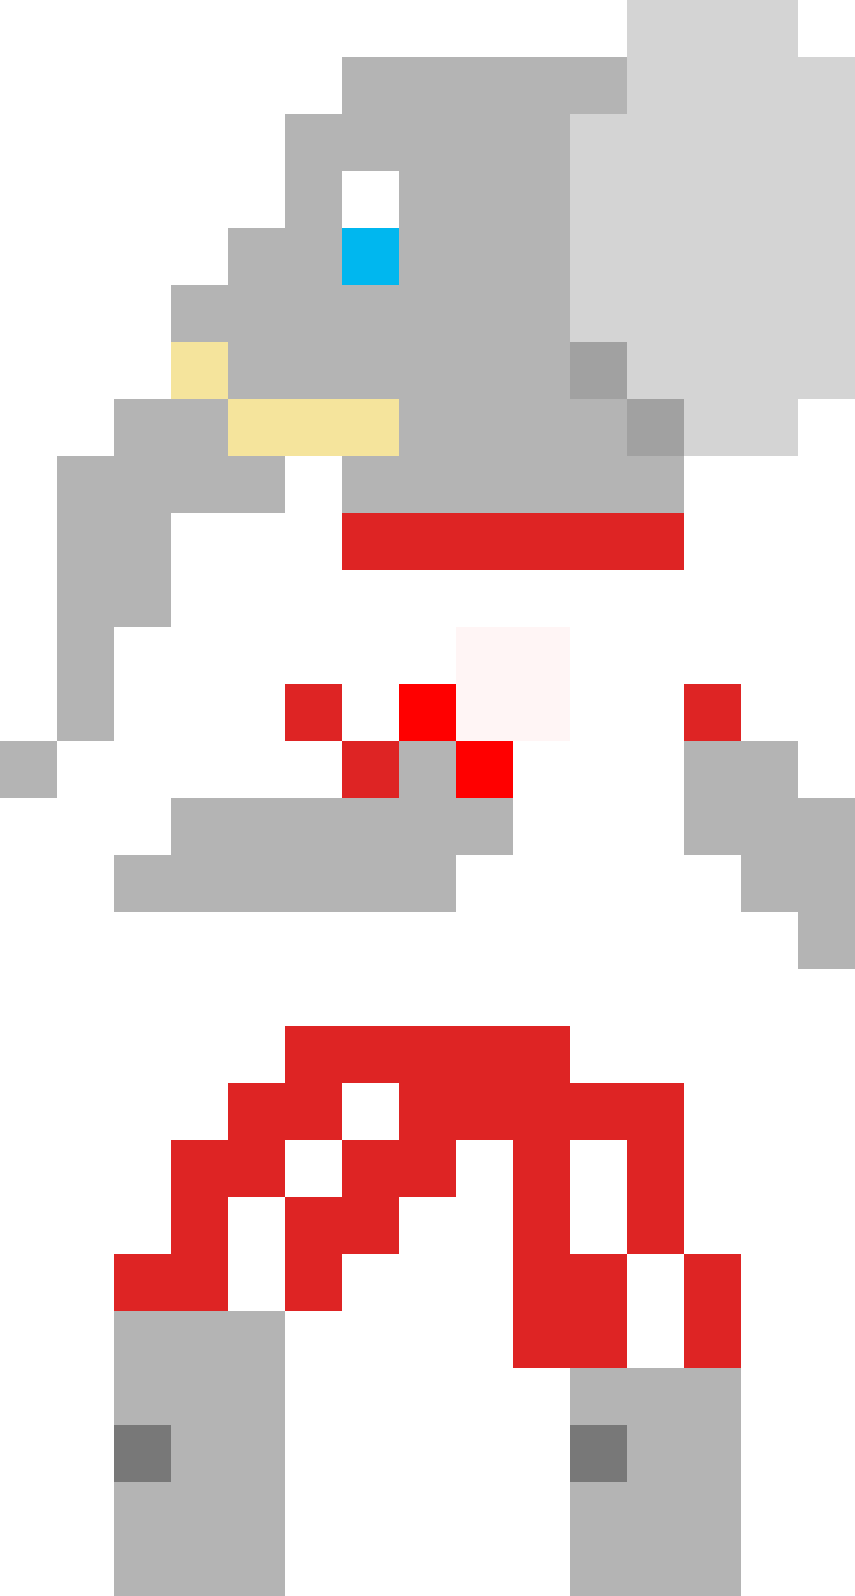
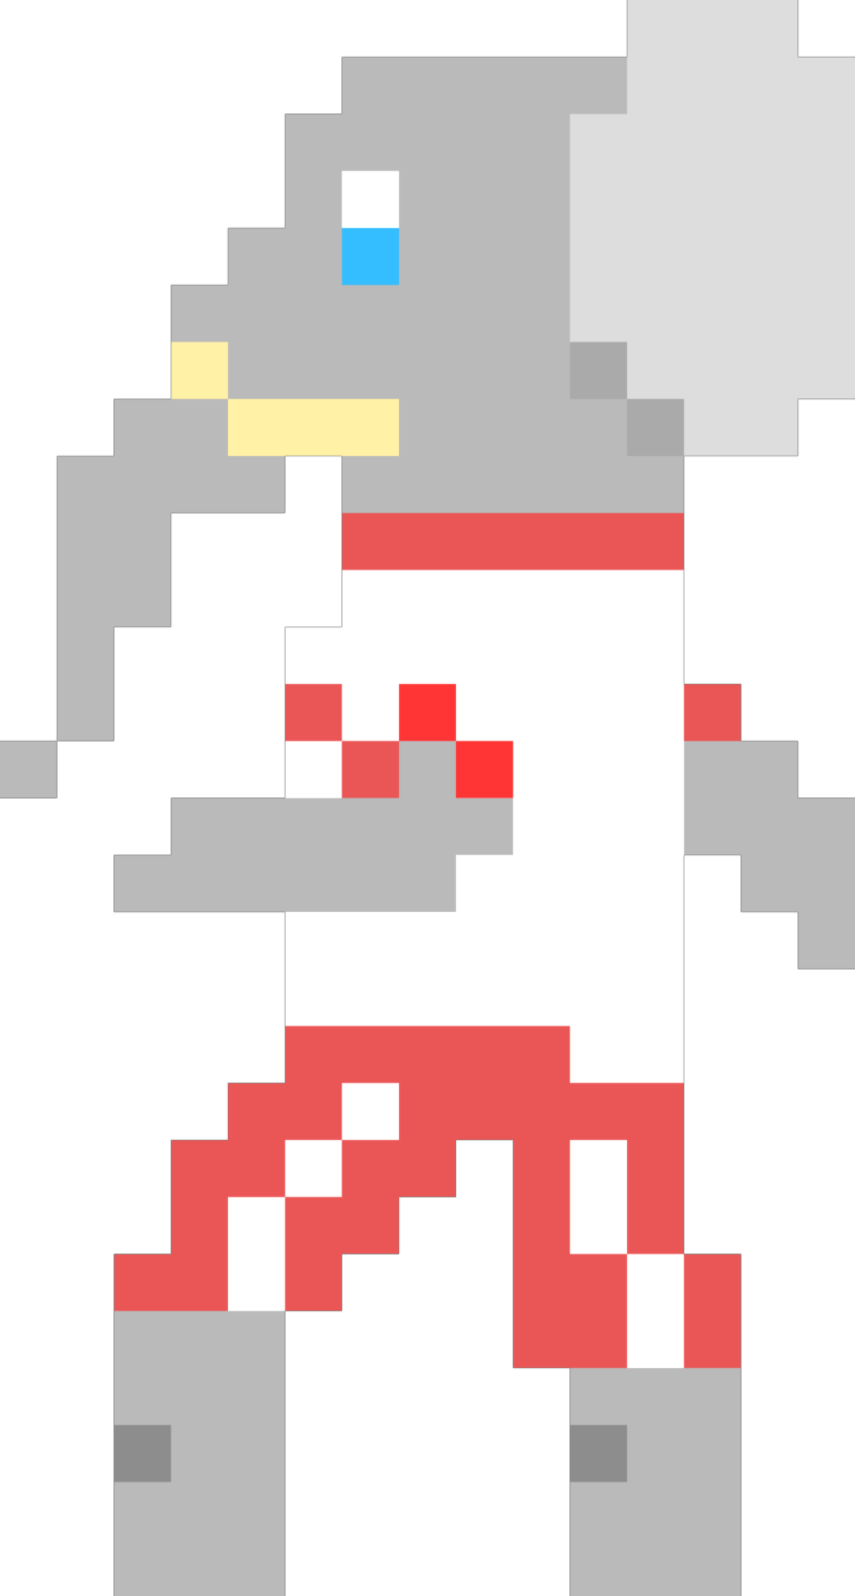
Added background

diff --git a/src/helloWorld/Player.java b/src/helloWorld/Player.java
@@ -22,7 +22,7 @@ public class Player extends Entity {
 	private BufferedImage rightSprite;
 	private BufferedImage jumpSprite;
 	
-	//instance variable for Weapon @Anthony
+	//instance variables for weapon and bullet @Anthony
 	private Weapon gun;
 	private Projectile bullet;
 	private boolean shooting = false;
@@ -41,13 +41,16 @@ public class Player extends Entity {
 		score = 0;
 		
 		try {
-			sprite = ImageIO.read(Player.class.getResource("rosie.png"));
+			leftSprite = ImageIO.read(Player.class.getResource("rosieLeft.png"));
+			rightSprite = ImageIO.read(Player.class.getResource("rosieRight.png"));
+			jumpSprite = ImageIO.read(Player.class.getResource("rosieJump.png"));
 			spritecreated = true;
-		} catch (IOException e) {
-			// TODO Auto-generated catch block
-			spritecreated = false;
-			//e.printStackTrace();
 		}
+		
+			catch (IOException e) {
+				// TODO Auto-generated catch block
+				e.printStackTrace();
+			}
 	}
 	public void move(int dirx) {
 		this.vx = dirx * this.speed;
@@ -69,15 +72,23 @@ public class Player extends Entity {
 	public void die() {
 		if (!isDead) {
 		isDead = true;
-		System.out.println("dead");
+		System.out.println("GAME OVER");
 		}
 	}
 	
+	/*
+	 * @param Weapon gun - stores a reference to gun object in player class
+	 * @param Projectile bullet - same as gun but for the bullet
+	 * Needed to use shoot method and check bullet collisions
+	 */
 	public void addGun(Weapon gun, Projectile bullet) {
 		this.gun = gun;
 		this.bullet = bullet;
 	}
 	
+	/*
+	 * Allows gun method to be accessed by player so it can be accessed in controller
+	 */
 	public void shoot() {
 		if (!shooting) {
 			this.gun.shoot();
@@ -107,10 +118,9 @@ public class Player extends Entity {
 			}
 			//System.out.println(bullet);
 			if (bullet.shot && bullet.collidesWith(e)) {
-				System.out.println();
 				bullet.setShot();
 				e.health -= 5;
-				System.out.println(e.health);
+				//System.out.println(e.health);
 				
 			}
 		}
@@ -137,36 +147,20 @@ public class Player extends Entity {
 		enemyCollision(enemies,bullet);
 	}
 	
+	
+		
 	public void draw(Graphics2D g2) {
 		Color c = g2.getColor();
 		
 		if(spritecreated) {
     		if(!isFacingRight()) {
-    			try {
-					leftSprite = ImageIO.read(Player.class.getResource("rosieLeft.png"));
 					g2.drawImage(leftSprite, getX(), getY(), width, height, null);
-				} catch (IOException e) {
-					// TODO Auto-generated catch block
-					e.printStackTrace();
-				}
     		}
     		else if (isFacingRight()){
-    			try {
-					rightSprite = ImageIO.read(Player.class.getResource("rosieRight.png"));
-					g2.drawImage(rightSprite, getX(), getY(), width, height, null);
-				} catch (IOException e) {
-					// TODO Auto-generated catch block
-					e.printStackTrace();
-				}
+					g2.drawImage(rightSprite, getX(), getY(), width, height, null);				
     		}
     		else if (Math.abs(vy) > 0){
-    			try {
-					jumpSprite = ImageIO.read(Player.class.getResource("rosieJump.png"));
 					g2.drawImage(jumpSprite, getX(), getY(), width, height, null);
-				} catch (IOException e) {
-					// TODO Auto-generated catch block
-					e.printStackTrace();
-				}
     		}
 		}
 		else {

diff --git a/src/helloWorld/Level.java b/src/helloWorld/Level.java
@@ -1,10 +1,15 @@
 package helloWorld;
 
+import java.awt.Dimension;
 //import java.awt.Color;
 import java.awt.Graphics2D;
+import java.awt.image.BufferedImage;
+import java.io.IOException;
 import java.util.ArrayList;
 import java.util.Iterator;
 import java.util.List;
+
+import javax.imageio.ImageIO;
 
 
 
@@ -19,7 +24,8 @@ import java.util.List;
  */
 public class Level {
 	
-    
+	BufferedImage bg;
+	Dimension screen;
     public List<Platform> platforms;
     private List<Enemy> enemies;
     private List<Collectible> collectibles;
@@ -35,6 +41,14 @@ public class Level {
         platforms = new ArrayList<>();
         enemies = new ArrayList<>();
         collectibles = new ArrayList<>();
+        
+        try {
+			bg = ImageIO.read(Level.class.getResource("background.png"));
+			screen = panel.getPreferredSize();
+		} catch (IOException e) {
+			// TODO Auto-generated catch block
+			e.printStackTrace();
+		}
         
         
         if (levelNumber == 1) {
@@ -92,7 +106,8 @@ public class Level {
     }
     
     public void draw(Graphics2D g2) {
-        for (Platform p : platforms) {
+        g2.drawImage(bg,0,0,(int) screen.getWidth(),(int) screen.getHeight(),null);
+    	for (Platform p : platforms) {
             p.draw(g2);
         }
         for (Enemy e : enemies) {

diff --git a/src/helloWorld/Weapon.java b/src/helloWorld/Weapon.java
@@ -12,7 +12,7 @@ import javax.imageio.ImageIO;
 
 public class Weapon {
 	
-	private boolean attached;
+	
 	private boolean pickedup = false;
 	private int x;
 	private int y;
@@ -45,7 +45,7 @@ public class Weapon {
 }
 	
 	public void shoot() {
-		if (isAttached()) {
+		if (owner != null) {
 		bullet.setShot();
 		}
 	}
@@ -54,18 +54,15 @@ public class Weapon {
 	
 
 	public void attachTo(Player player) {
-	    if (!isAttached()) setAttached(true);
 		if (owner == null) this.owner = player;
 		this.bullet = new Projectile(this.x, this.y);
 		player.addGun(this, this.bullet);
 	}
 
-	public boolean isAttached() {
-	    return this.attached;
-	}
+
 
 	public void update() {
-	    if (attached && owner != null) {
+	    if (owner != null) {
 	    	if (owner.isFacingRight()) {
 	        // Follow player's position with an offset
 	    	gun = rightgun;
@@ -115,10 +112,6 @@ public class Weapon {
 		}
 	}
 
-
-	public void setAttached(boolean attached) {
-		this.attached = attached;
-	}
 	
 	public Player getOwner() {
 		return this.owner;

diff --git a/src/helloWorld/GamePanel.java b/src/helloWorld/GamePanel.java
@@ -4,12 +4,17 @@ import java.awt.Color;
 import java.awt.Dimension;
 import java.awt.Graphics;
 import java.awt.Graphics2D;
+import java.awt.image.BufferedImage;
+import java.io.IOException;
 
+import javax.imageio.ImageIO;
 import javax.swing.JPanel;
 import javax.swing.Timer;
 
 public class GamePanel extends JPanel {
 
+	
+	Dimension screen;
 	Player player;
 //	Enemy testEnemy;
 	Timer timer;
@@ -24,8 +29,11 @@ public class GamePanel extends JPanel {
 	
 		public GamePanel() {
 			//Panel set up
-			setPreferredSize(new Dimension(800,600));
-			setBackground(Color.white);
+			screen = new Dimension(800,600);
+			setPreferredSize(screen);
+			setBackground(Color.WHITE);
+			
+			
 			setFocusable(true);
 			setLayout(null);
 			//HUD Setup
@@ -96,6 +104,7 @@ public class GamePanel extends JPanel {
 			
 			
 			Graphics2D g2 = (Graphics2D) g;
+			
 			level.draw(g2);
 			player.draw(g2);
 			gun.draw(g2);
